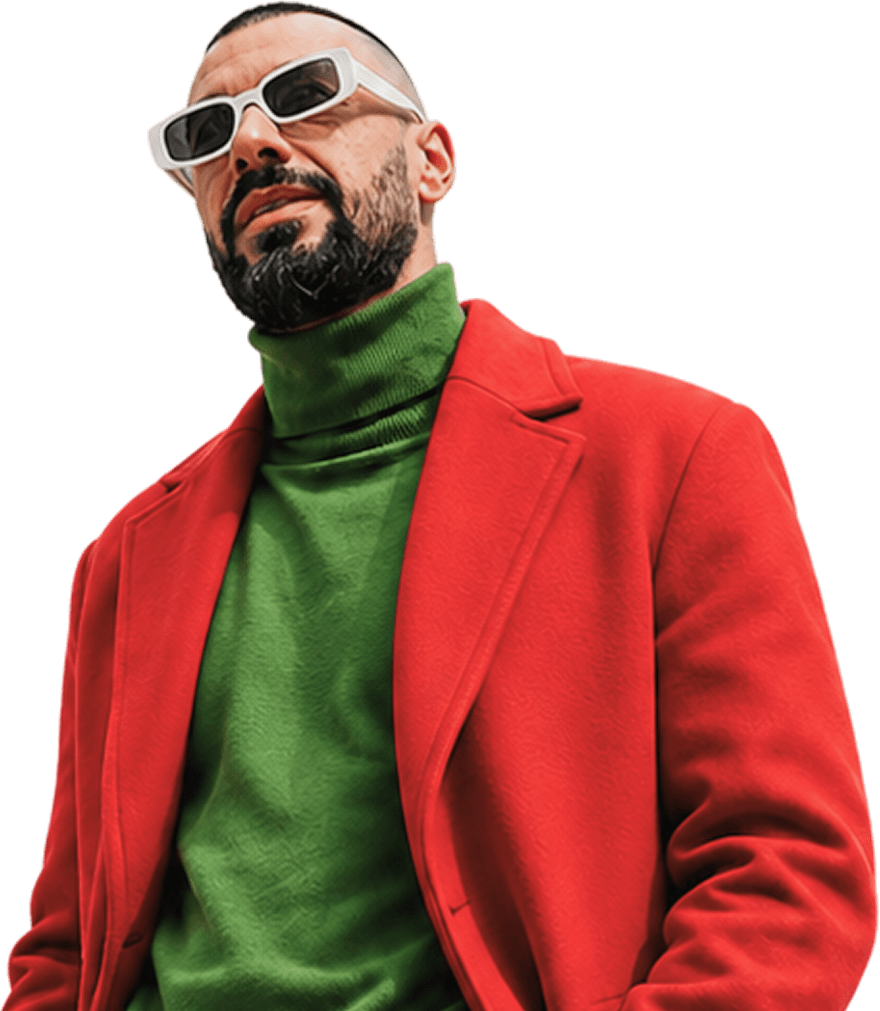
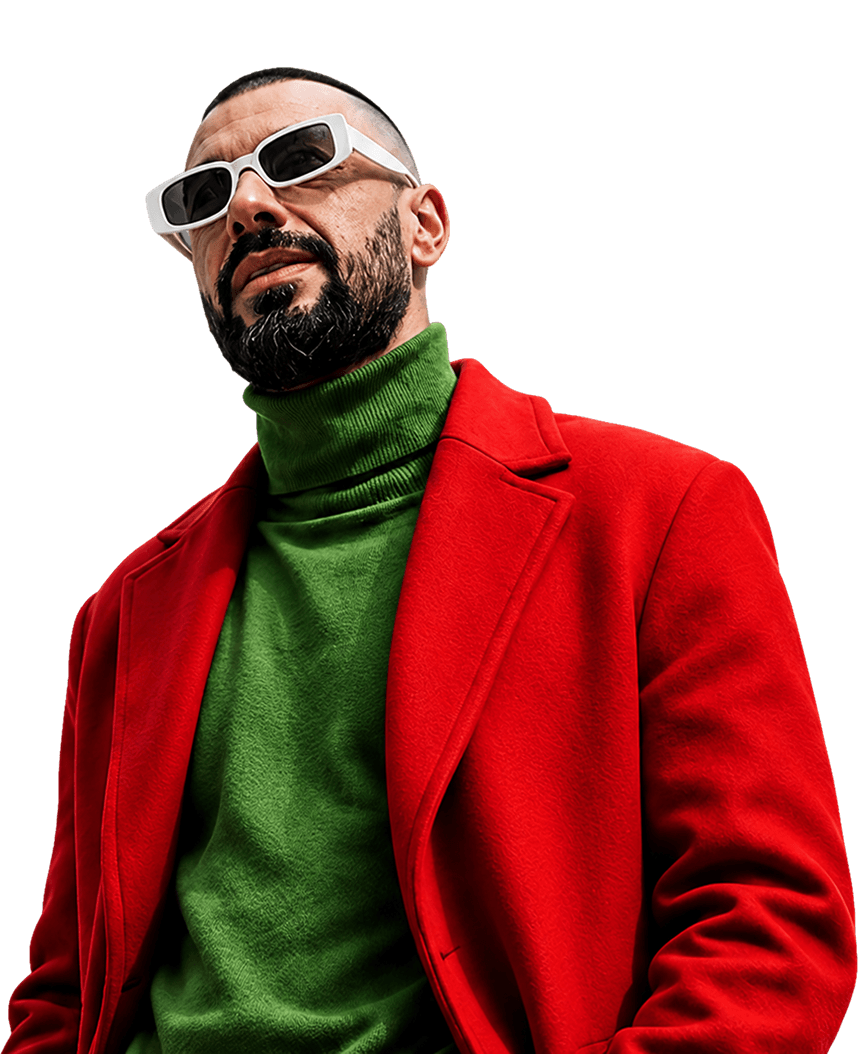
адаптив 2

diff --git a/assets/css/core.css b/assets/css/core.css
@@ -232,6 +232,8 @@ body {
     }
 
     .bg-card {
+        border-radius: 20px;
+
         &._left {
             left: 8px;
             bottom: 8px;
